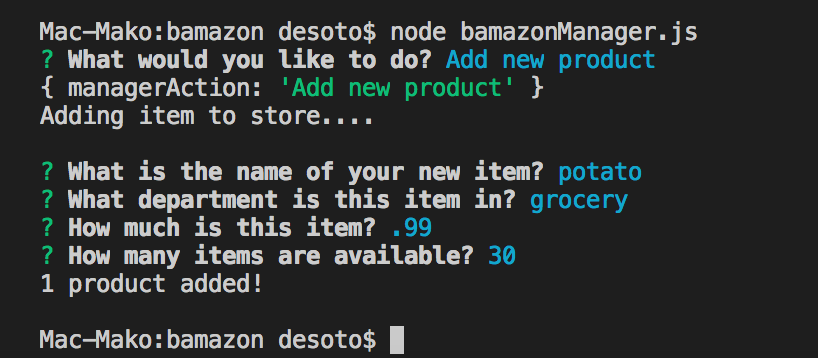
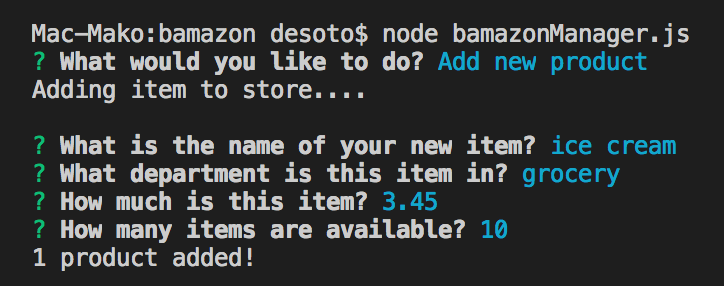
fixed some screenshots

Changed region(s): [[0.0304, 0.4476, 0.942, 1.0], [0.0304, 0.0559, 0.9724, 0.3636]]

diff --git a/bamazonManager.js b/bamazonManager.js
@@ -260,7 +260,6 @@ function displayOptions() {
             }
         ])
         .then(answers => {
-            console.log(answers);
             if (answers.managerAction === "View products for sale") {
                 console.log("All items available: \n");
                 displayItems();

diff --git a/README.md b/README.md
@@ -1,1 +1,57 @@
 # bamazon
+
+An inventory management system, running on mysql.
+
+## Instructions:
+
+##### Installing the Program
+
+Please note: this game requires [Node.js](https://nodejs.org/en/) and [mySQL](https://www.mysql.com/) in order to be played. Make sure they are both installed on your computer!
+
+Download the program, mySQL information, and all other files. Navigate to the file location using the terminal, or open the files with a code editor with a built-in terminal. Install all necessary packages using the command "npm i".
+
+![Navigation and Instillation](https://raw.githubusercontent.com/rsdesoto/bamazon/master/images/location_and_installation.png)
+
+##### Customer Screen
+
+Bring up the customer screen by typing the command "node bamazonCustomer.js". The current available inventory to shop from will appear.
+
+![Customer Inventory](https://raw.githubusercontent.com/rsdesoto/bamazon/master/images/customer_view.png)
+
+In order to add items, enter the item ID and the number of items you want to buy. This will update the mySQL server.
+
+![Customer Purchase](https://raw.githubusercontent.com/rsdesoto/bamazon/master/images/add_to_cart.png)
+
+If there isn't enough inventory to fulfill a purchase, the user will be notified.
+
+![Low Inventory](https://raw.githubusercontent.com/rsdesoto/bamazon/master/images/protection_value.png)
+
+##### Manager Screen
+
+To run the manager screen, type in "node bamazonManager.js". The four options for managers will be displayed.
+
+![Manager Screen](https://raw.githubusercontent.com/rsdesoto/bamazon/master/images/manager_view.png)
+
+The first option available is printing a list of all items in the store's inventory, including items not in stock.
+
+The second item available is printing a list of all items with 4 or fewer units in stock.
+
+![Low Inventory](https://raw.githubusercontent.com/rsdesoto/bamazon/master/images/low_inventory.png)
+
+Managers can add more items to the inventory. When choosing this option,
+
+![Gameplay Example](https://raw.githubusercontent.com/rsdesoto/hangman-node/master/images/gameplay.png)
+
+##### Replay or Exit
+
+Once the game has been finished, the game will provide a prompt to replay, or to quit.
+
+![Lose Screen](https://raw.githubusercontent.com/rsdesoto/hangman-node/master/images/endgame.png)
+
+**Good luck!**
+
+## Credits:
+
+## IMPORTANT
+
+Before you can proceed, make sure you have both [mySQL](https://www.mysql.com/) and [Node.js](https://nodejs.org/en/) installed on your computer!
